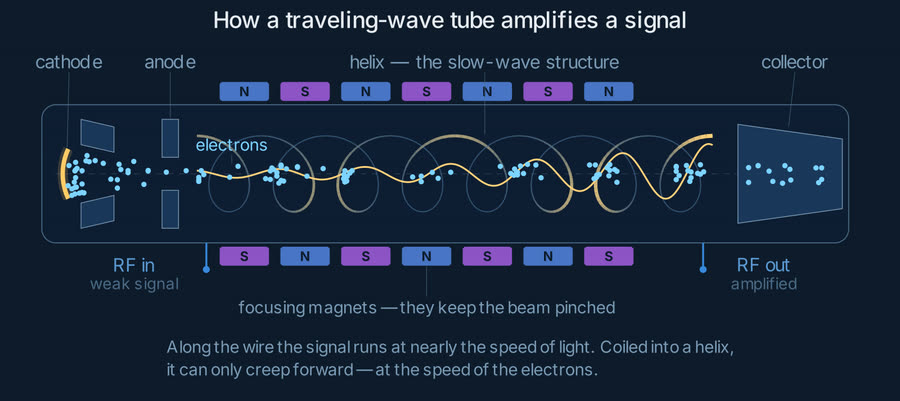
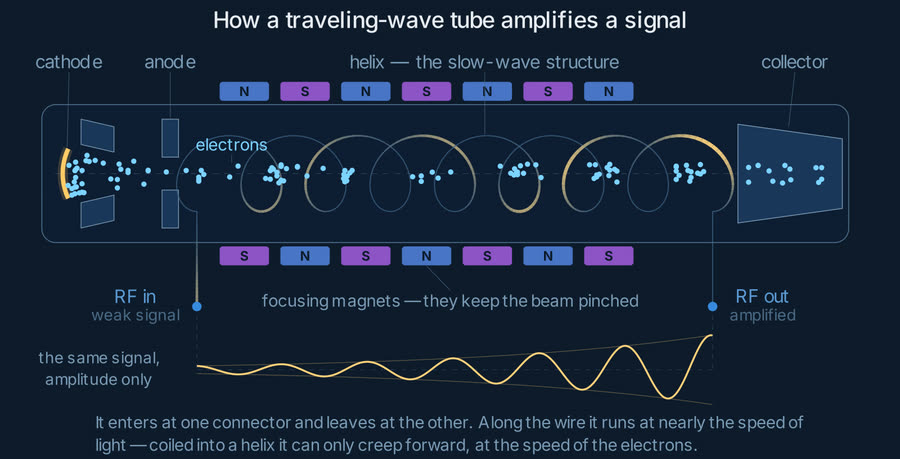
Feed the signal in and out through the RF connectors, split off the amplitude
The light appeared from nowhere at the start of the helix, and with the wave
now visible on the wire the amplitude reads better on its own.

- The lit circuit is one continuous wire: input lead, helix, output lead. The
  helix is drawn with a phase offset of pi so it begins and ends at the bottom
  of a turn, where the two leads come up to meet it, so the signal climbs from
  the connector onto the coil and drops back down at the far end.
- The amplitude is back in a lane of its own under the tube, tied to the two
  connectors by dropped leaders, with the growth envelope drawn.
- The axial field is no longer drawn over the beam; the coil carries the wave
  and the lane carries the amplitude.

diff --git a/projets/thales.html b/projets/thales.html
@@ -159,15 +159,16 @@
       <figure class="fig">
         <picture>
           <source srcset="../assets/twt/twt-loop-still.jpg" media="(prefers-reduced-motion: reduce)">
-          <img src="../assets/twt/twt-loop.gif" width="900" height="401"
-               alt="Animated diagram of a traveling-wave tube: the signal runs as a band of light along the helix wire, going round every turn while creeping forward at the speed of the electrons, which bunch under it as the wave grows toward the output.">
+          <img src="../assets/twt/twt-loop.gif" width="900" height="459"
+               alt="Animated diagram of a traveling-wave tube: the signal enters at the RF connector, climbs onto the helix, runs round every turn while creeping forward at the speed of the electrons, and leaves at the far connector much larger; a lane below plots its amplitude growing along the tube.">
         </picture>
         <figcaption>
           Drawn for this page with <a href="https://www.manim.community/" target="_blank" rel="noopener">Manim</a>
           (<a href="https://github.com/MartinErwan/MartinErwan.github.io/blob/main/assets/manim/twt.py" target="_blank" rel="noopener">source</a>).
-          The signal is drawn on the wire it actually travels on: it runs right round every turn of the helix,
-          which is why it only creeps forward — at the speed of the electrons, which is what lets the two trade
-          energy. The bunching below it is integrated from the equations of motion, not drawn by hand.
+          The signal is drawn on the wire it actually travels on: in at one connector, right round every turn
+          of the helix, out at the other. That is why it only creeps forward — at the speed of the electrons,
+          which is what lets the two trade energy. The lane underneath plots the same signal's amplitude, and
+          the bunching is integrated from the equations of motion, not drawn by hand.
           A longer walk-through — including why the helix is what slows the wave down — is available as a
           <a href="../assets/twt/twt-explainer.mp4">78-second clip</a>.
         </figcaption>

diff --git a/assets/manim/twt.py b/assets/manim/twt.py
@@ -90,21 +90,21 @@ V_BEAM   = 1.06 * V_PHASE            # beam slightly faster than the wave
 L_GAIN   = (X_H1 - X_H0) / np.log(9) # e-folding length of the growing wave
 
 
-def helix_points(x0, x1, radius=R_HELIX, turns=TURNS, samples=900):
+def helix_points(x0, x1, radius=R_HELIX, turns=TURNS, samples=900, phase=0.0):
     """Side view of a helix wound along the x axis, with a touch of depth."""
-    th = np.linspace(0, turns * TAU, samples)
-    x = x0 + (x1 - x0) * th / (turns * TAU) + 0.92 * radius * np.sin(th)
+    th = np.linspace(0, turns * TAU, samples) + phase
+    x = x0 + (x1 - x0) * (th - phase) / (turns * TAU) + 0.92 * radius * np.sin(th)
     y = AXIS_Y + radius * np.cos(th)
     return np.stack([x, y, np.zeros_like(x)], axis=1)
 
 
-def helix_samples(n, x0=X_H0, x1=X_H1, radius=R_HELIX, turns=TURNS):
+def helix_samples(n, x0=X_H0, x1=X_H1, radius=R_HELIX, turns=TURNS, phase=0.0):
     """Points along the drawn helix, paired with the axial position of each.
 
     The wire is sampled uniformly in turn angle, so the index is also uniform
     in *arc length along the wire* — which is what the travelling wave runs on.
     """
-    pts = helix_points(x0, x1, radius=radius, turns=turns, samples=n)
+    pts = helix_points(x0, x1, radius=radius, turns=turns, samples=n, phase=phase)
     axial = np.linspace(x0, x1, n)
     return pts, axial
 
@@ -794,11 +794,12 @@ class TWTLoop(TWTScene):
     T_LOOP = 7.2                                  # seconds, an exact loop
     LAM    = (X_H1 - X_H0) / 6                    # six wavelengths of helix
     VPH    = (X_H1 - X_H0) / T_LOOP               # crossed in one loop
-    AMP    = 0.48                                 # drawn amplitude at the output
+    AMP    = 0.55                                 # amplitude drawn in the signal lane
     NSEG   = 360                                  # pieces the wire is cut into
+    Y_PORT = -0.95                                # where the RF connectors sit
 
     WIRE   = "#3e6486"                            # the wire, unlit
-    GLOW   = "#ffd27a"                            # the wave running along it
+    GLOW   = "#ffd27a"                            # the signal running along it
 
     def strength(self, x):
         """Envelope of the wave: it grows exponentially down the tube."""
@@ -810,56 +811,88 @@ class TWTLoop(TWTScene):
     # ----------------------------------------------------------------------
     def construct(self):
         tube = build_tube()
-        tube.remove(tube.helix)                   # replaced by the lit version
+        for part in (tube.helix, tube.rf_in, tube.rf_out):
+            tube.remove(part)                     # replaced by the lit circuit
         self.beam = Beam(v_phase=self.VPH, lam=self.LAM)
         self.beam.coupling.set_value(1.0)
 
-        wire = self.lit_helix()
+        circuit, ports = self.lit_circuit()
         magnets = self.magnet_row()
-        wave = always_redraw(self.wave_curve)
+        lane = self.signal_lane()
         chrome = self.annotate()
 
         dt = 1 / config.frame_rate
         for _ in range(int(round(2 * self.T_LOOP / dt))):   # let the bunches settle
             self.beam.step(dt)
 
-        self.add(tube, magnets, wire, wave, self.beam.dots, chrome)
+        self.add(tube, magnets, circuit, ports, self.beam.dots, lane, chrome)
         self.beam.dots.add_updater(lambda m, dt: self.beam.step(dt))
         self.wait(self.T_LOOP)
 
-    # -- the wave, running along the wire itself ---------------------------
-    def lit_helix(self):
-        """The helix cut into short pieces, each lit by the wave passing through it.
+    # -- the signal, lit along the circuit it actually travels -------------
+    def lit_circuit(self):
+        """Input lead, helix, output lead: one wire, lit by the wave on it.
 
-        The signal moves along the *wire* at the speed of light. Six wavelengths
-        fit on the wire of the whole helix, and the wave covers that wire in one
-        loop — so the lit beads slide right round every turn while the pattern
-        as a whole only creeps forward, at the speed of the beam. That gap is
-        the whole point of a slow-wave structure.
+        Each piece is lit by the phase of the wave at its own arc length along
+        the wire. The wave covers the 31 units of wire in one loop while only
+        advancing the 8 units of tube length — which is the whole point of a
+        slow-wave structure, and why it keeps pace with the electrons.
         """
-        pts, axial = helix_samples(self.NSEG + 1)
-        segs = VGroup(*[Line(pts[i], pts[i + 1], stroke_color=self.WIRE,
-                             stroke_width=1.8) for i in range(self.NSEG)])
+        pts, axial = helix_samples(self.NSEG + 1, phase=PI)   # starts at the bottom
+        s_helix = helix_wire_length(TURNS)
+        ds_h = s_helix / self.NSEG
+        y_join = AXIS_Y - R_HELIX                            # where the leads meet it
+
+        n_l = 24
+        ds_l = (y_join - self.Y_PORT) / n_l
+        lead_in = [np.array([X_H0, y, 0]) for y in np.linspace(self.Y_PORT, y_join, n_l + 1)]
+        lead_out = [np.array([X_H1, y, 0]) for y in np.linspace(y_join, self.Y_PORT, n_l + 1)]
+
+        pieces, s = [], 0.0
+        for a, b in zip(lead_in[:-1], lead_in[1:]):
+            pieces.append((a, b, s + ds_l / 2, self.strength(X_H0))); s += ds_l
+        for i in range(self.NSEG):
+            pieces.append((pts[i], pts[i + 1], s + ds_h / 2, self.strength(axial[i]))); s += ds_h
+        for a, b in zip(lead_out[:-1], lead_out[1:]):
+            pieces.append((a, b, s + ds_l / 2, self.strength(X_H1))); s += ds_l
+
+        segs = VGroup(*[Line(a, b, stroke_color=self.WIRE, stroke_width=1.8)
+                        for a, b, _, _ in pieces])
         base, glow = ManimColor(self.WIRE), ManimColor(self.GLOW)
+        lam_w = s_helix / 6                        # six wavelengths fit on the wire
+        v_wire = s_helix / self.T_LOOP
 
         def paint(_):
-            u = self.beam.t / self.T_LOOP
-            for i, seg in enumerate(segs):
-                ph = TAU * 6 * (i / self.NSEG - u)
-                bead = (0.5 * (1 + np.sin(ph))) ** 4        # narrow, so it reads as motion
-                g = bead * (0.45 + 0.55 * self.strength(axial[i]))
+            t = self.beam.t
+            for seg, (_, _, sm, env) in zip(segs, pieces):
+                bead = (0.5 * (1 + np.sin(TAU * (sm - v_wire * t) / lam_w))) ** 4
+                g = bead * (0.45 + 0.55 * env)
                 seg.set_stroke(color=interpolate_color(base, glow, g),
                                width=1.8 + 4.6 * g, opacity=0.75 + 0.25 * g)
         segs.add_updater(paint)
         paint(None)
-        return segs
 
-    # -- the field that wave puts on the axis, where the beam is -----------
-    def wave_curve(self):
-        t = self.beam.t
-        return FunctionGraph(lambda x: AXIS_Y + self.AMP * self.e_field(x, t),
-                             x_range=[X_H0, X_H1, 0.015],
-                             color="#ffd27a", stroke_width=2.8)
+        ports = VGroup(*[Dot([x, self.Y_PORT, 0], radius=0.075, color=ACCENT)
+                         for x in (X_H0, X_H1)])
+        return segs, ports
+
+    # -- the amplitude, kept in a lane of its own --------------------------
+    def signal_lane(self):
+        base = DashedLine([X_H0, WAVE_Y, 0], [X_H1, WAVE_Y, 0], dash_length=0.08,
+                          stroke_color=FAINT, stroke_width=1, stroke_opacity=0.4)
+        env = VGroup(*[FunctionGraph(lambda x, k=sgn: WAVE_Y + k * self.AMP * self.strength(x),
+                                     x_range=[X_H0, X_H1, 0.05], color=self.GLOW,
+                                     stroke_width=1.2, stroke_opacity=0.32) for sgn in (1, -1)])
+        trace = always_redraw(lambda: FunctionGraph(
+            lambda x: WAVE_Y + self.AMP * self.e_field(x, self.beam.t),
+            x_range=[X_H0, X_H1, 0.015], color=self.GLOW, stroke_width=3.0))
+        drops = VGroup(*[DashedLine([x, self.Y_PORT - 0.14, 0], [x, WAVE_Y + 0.02, 0],
+                                    dash_length=0.07, stroke_color=FAINT,
+                                    stroke_width=1, stroke_opacity=0.5)
+                         for x in (X_H0, X_H1)])
+        label = VGroup(T("the same signal,", 18, MUTED), T("amplitude only", 18, MUTED)
+                       ).arrange(DOWN, buff=0.10).move_to([-5.55, WAVE_Y, 0])
+        return VGroup(base, env, trace, drops, label)
 
     # -- the magnets that keep the beam pinched ----------------------------
     def magnet_row(self):
@@ -894,19 +927,19 @@ class TWTLoop(TWTScene):
 
         electrons = tag("electrons", -3.45, AXIS_Y + 0.46,
                         [-3.45, AXIS_Y + 0.17, 0], size=19, color=ELECTRON)
-        magnets = tag("focusing magnets — they keep the beam pinched", -0.37, -0.98,
+        magnets = tag("focusing magnets — they keep the beam pinched", 0.0, -0.88,
                       [-0.37, -0.31, 0], size=19)
 
         rf_in = VGroup(T("RF in", 21, ACCENT_LT), T("weak signal", 18, FAINT)
                        ).arrange(DOWN, buff=0.09)
-        rf_in.move_to([0, -0.45, 0]).align_to([X_H0 - 0.30, 0, 0], RIGHT)
+        rf_in.move_to([0, self.Y_PORT, 0]).align_to([X_H0 - 0.28, 0, 0], RIGHT)
         rf_out = VGroup(T("RF out", 21, ACCENT_LT), T("amplified", 18, FAINT)
                         ).arrange(DOWN, buff=0.09)
-        rf_out.move_to([0, -0.45, 0]).align_to([X_H1 + 0.30, 0, 0], LEFT)
+        rf_out.move_to([0, self.Y_PORT, 0]).align_to([X_H1 + 0.28, 0, 0], LEFT)
 
-        key = T("Along the wire the signal runs at nearly the speed of light. Coiled into a "
-                "helix, it can only creep forward — at the speed of the electrons.",
-                19, MUTED, wrap=82)
-        key.move_to([0, -1.78, 0])
+        key = T("It enters at one connector and leaves at the other. Along the wire it runs at "
+                "nearly the speed of light — coiled into a helix it can only creep forward, at "
+                "the speed of the electrons.", 19, MUTED, wrap=100)
+        key.move_to([0, -2.98, 0])
 
         return VGroup(title, above, electrons, magnets, rf_in, rf_out, key)

diff --git a/assets/manim/README.md b/assets/manim/README.md
@@ -8,7 +8,7 @@ Source of the explainer animations on
 |---|---|---|
 | `TravelingWaveTube` | The full explainer: the tube, the electron beam and its focusing, why the helix slows the wave down, bunching and exponential gain | `assets/twt/twt-explainer.mp4` |
 | `ElectronGunProblem` | How gun parameters bend the beam trajectory, what interception costs, and why a learned surrogate was needed | `assets/twt/gun-problem.mp4` + `gun-problem-still.jpg` |
-| `TWTLoop` | The labelled figure used on the page. The signal is lit along the helix *wire*, so it visibly runs round every turn while creeping forward at beam speed; the axial field it sets up is drawn on the beam, where the electrons bunch. Loops exactly: the wave covers the whole wire in one loop, and six wavelengths fit on it | `assets/twt/twt-loop.gif` |
+| `TWTLoop` | The labelled figure used on the page. The signal is lit along the circuit it really travels — in at one RF connector, round every turn of the helix, out at the other — so the slow-wave trick is visible rather than asserted; its amplitude is plotted in a lane of its own below. Loops exactly: the wave covers the whole wire in one loop, and six wavelengths fit on it | `assets/twt/twt-loop.gif` |
 
 ## Rendering
 
@@ -28,7 +28,7 @@ ffmpeg -framerate 30 -start_number 0 -i TravelingWaveTube%04d.png \
 
 # gif — no dithering, the artwork is flat enough that it only adds noise
 ffmpeg -framerate 30 -start_number 0 -i TWTLoop%04d.png \
-       -vf "crop=1600:712:0:12,fps=15,scale=900:-1:flags=lanczos,split[a][b];\
+       -vf "crop=1600:816:0:12,fps=15,scale=900:-1:flags=lanczos,split[a][b];\
             [a]palettegen=max_colors=128:stats_mode=diff[p];[b][p]paletteuse=dither=none" \
        -loop 0 raw.gif
 gifsicle -O3 --lossy=25 raw.gif -o twt-loop.gif
@@ -45,9 +45,11 @@ bunches settle into the decelerating phase and hand their energy over. Note the
 sign: the force on an electron is -eE, so the half-cycles with `sin > 0` are the
 ones that *slow it down*.
 
-In `TWTLoop` the wire is cut into 360 pieces and each is lit by the phase of the
-wave at its own arc length along the wire, not at its x. That is the whole point:
-the signal covers 31 units of wire to advance 8 units down the tube, so it goes
-round and round while barely moving forward. The helix
+In `TWTLoop` the input lead, the helix and the output lead are cut into short
+pieces, and each is lit by the phase of the wave at its own arc length *along the
+wire*, not at its x. That is the whole point: the signal covers 31 units of wire
+to advance 8 units down the tube, so it goes round and round while barely moving
+forward. The helix is drawn with a phase offset of pi so that it starts and ends
+at the bottom of a turn, where the two leads come up to meet it. The helix
 is drawn with a pitch-to-circumference ratio that really does give a ~4x
 slow-down, so the "four times more wire" claim matches the picture on screen.
